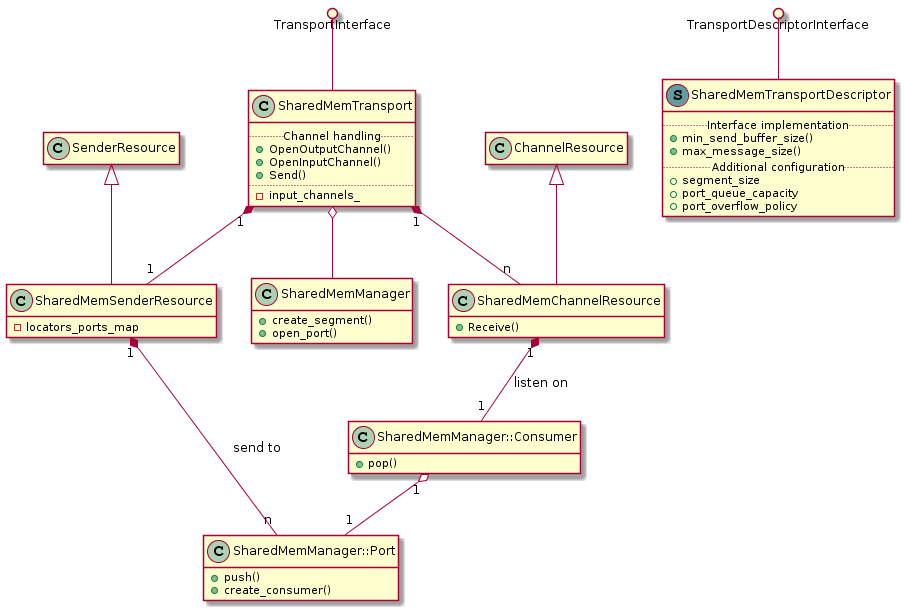
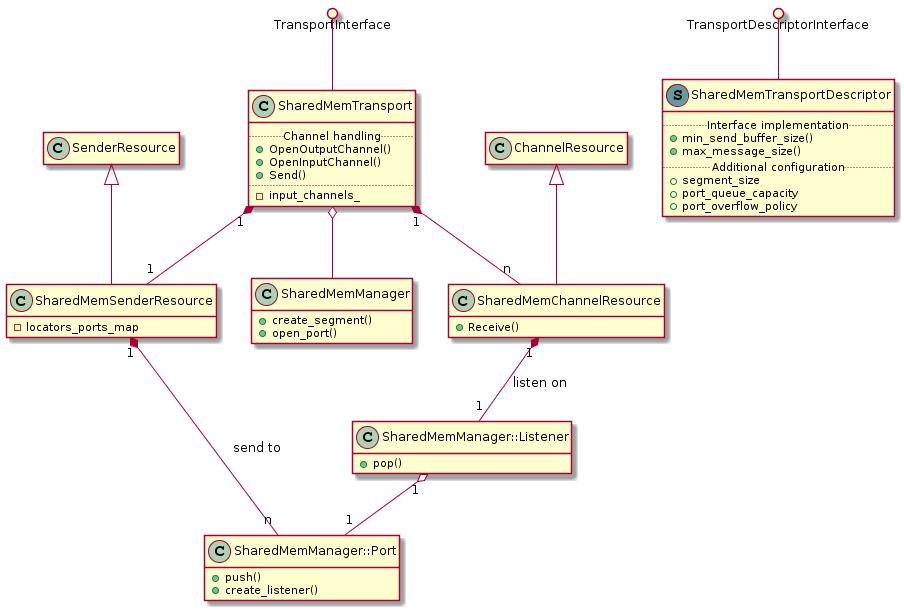
Refs #6486. Consumers changed Listeners.

diff --git a/doc/proposals/shared-memory-transport/eprosima/interprocess_shared_mem.md b/doc/proposals/shared-memory-transport/eprosima/interprocess_shared_mem.md
@@ -35,30 +35,30 @@ eProsima has received commercial proposals to implement a shared memory transpor
 
 * **Buffer descriptor**: Shared memory buffers can be referenced by buffers descriptors, these descriptors act like pointers to a buffer that can be copied between processes with a minimum cost. A descriptor contains the SegmentId and the offset to the data from the base of the segment.
 
-* **Shared memory port**: Is a communication channel identified by a port_id(uint32_t number). Through this channel, buffer descriptors are sent to other processes. It has a ring-buffer, in shared memory, where descriptors are stored. The same port can by opened by several processes for reading and writting operations. Multiple data consumers can be registered in a port to be notified when descriptors are pushed to the ring-buffer. Multiple data producers can push descriptors to a port. The port containts an atomic counter with the number of consumers registered on it, each position in the ring-buffer has also a counter initialized to the number of consumers listening to that position, as consumers read the descriptor, decrement the counter, so the ring-buffer position will be considered free when the counter is zero. The port also has an interprocess condition variable where the consumers will wait for incoming descriptors.
+* **Shared memory port**: Is a communication channel identified by a port_id(uint32_t number). Through this channel, buffer descriptors are sent to other processes. It has a ring-buffer, in shared memory, where descriptors are stored. The same port can by opened by several processes for reading and writting operations. Multiple listeners can be registered in a port to be notified when descriptors are pushed to the ring-buffer. Multiple data producers can push descriptors to a port. The port containts an atomic counter with the number of listeners registered on it, each position in the ring-buffer has also a counter initialized to the number of listeners, as listeners read the descriptor, decrement the counter, so the ring-buffer position will be considered free when the counter is zero. The port also has an interprocess condition variable where the listeners will wait for incoming descriptors.
 
-* **Consumer**: Consumers listen to descriptors pushed to a port. The Consumer provides an interface for the application to wait and access to the data referenced by the descriptors. When a reader pops a descriptor from the port, look at the descriptor's SegmentId field to open the origin shared memory segment (if not already opened in this process), once the origin segment is mapped locally, the reader is able to access the data using the offset field contained in the descriptor.
+* **Listener**: Listeners listen to descriptors pushed to a port. The Listener provides an interface for the application to wait and access to the data referenced by the descriptors. When a consumer pops a descriptor from the port listener, look at the descriptor's SegmentId field to open the origin shared memory segment (if not already opened in this process), once the origin segment is mapped locally, the consumer is able to access the data using the offset field contained in the descriptor.
 
-* **SharedMemoryManager**: Applications instantiate this object in order to access the shared memory resources described above. At least one per process memory manager is required. The manager provides functionality for the application to create shared memory segments, alloc data buffers in the segments, push buffer descriptors to shared memory ports and create consumers associated to a port.
+* **SharedMemoryManager**: Applications instantiate this object in order to access the shared memory resources described above. At least one per process memory manager is required. The manager provides functionality for the application to create shared memory segments, alloc data buffers in the segments, push buffer descriptors to shared memory ports and create listeners associated to a port.
 
 ### Example scenario
 ![](interprocess_shared_mem1.png)
 
 Let's study the above example. There are three processes with a SharedMemManager per process, every process creates its own shared memory segment intended to store the buffers that will be shared with other processes.
 
-P1, P2 and P3 processes are participants in a RTPS-DDS environment. Discovery of participants is done using multicast so we have selected shared memory port0 as "multicast" port for discovery, therefore, first thing all participants do is to open shared memory port0. A consumer attached to port0 is created too, by every participant, to read the incoming descriptors.
+P1, P2 and P3 processes are participants in a RTPS-DDS environment. Discovery of participants is done using multicast so we have selected shared memory port0 as "multicast" port for discovery, therefore, first thing all participants do is to open shared memory port0. A listener attached to port0 is created too, by every participant, to read the incoming descriptors.
 
-Each participant opens a port to receive unicast messages, ports 1, 2 and 3 respectively, and create consumers associated to those ports.
+Each participant opens a port to receive unicast messages, ports 1, 2 and 3 respectively, and create listeners associated to those ports.
 
 The first message the participants send is the multicast discovery message: "I'm here, and I am listening on portN". So they alloc a buffer in its local segment, write the message to that buffer and push the buffer's descriptor through the port0. Observe, in the global segment, how port0's ring-buffer store the descriptors to Data1a(P1), Data2a(P2), Data3a(P3). 
 
 After the discovery phase, participants know the other participants and its "unicast" ports so they can push messages to specific participants.
 
-Finally, let's observe how P1 share Data1b with P3 and Data1c with P2 and P3, this is done by pushing the buffer's descriptors to the corresponding ports, the descriptors are stored in the port's ring-buffer and consumers registered in these ports are notified.
+Finally, let's observe how P1 share Data1b with P3 and Data1c with P2 and P3, this is done by pushing the buffer's descriptors to the corresponding ports, the descriptors are stored in the port's ring-buffer and listeners registered in these ports are notified.
 
 ### Design considerations
 
-* **Minimize global interprocess locks**: Interprocess locks are dangerous because, in the case of one of the involved processes crash or hung while holding an interprocess lock, all the collaborating processes could be affected. In this design, the global segment is the critical area, most of accesses will be lock-free reading operations. Interprocess-locks will only be required when registering / unregistering a new reader in a port. Once the setup has been established, the risk of a process locking the whole port is minimized.
+* **Minimize global interprocess locks**: Interprocess locks are dangerous because, in the case of one of the involved processes crash or hung while holding an interprocess lock, all the collaborating processes could be affected. In this design, the global segment is the critical area, most of accesses will be lock-free reading operations. Interprocess-locks will only be required when registering / unregistering a new listener in a port. Once the setup has been established, the risk of a process locking the whole port is minimized.
 
 * **Scalable number of processes**: Every process creates its own shared memory segments to store the locally generated messages. This is more scalable than having a global segment shared between all the involved processes. 
 
